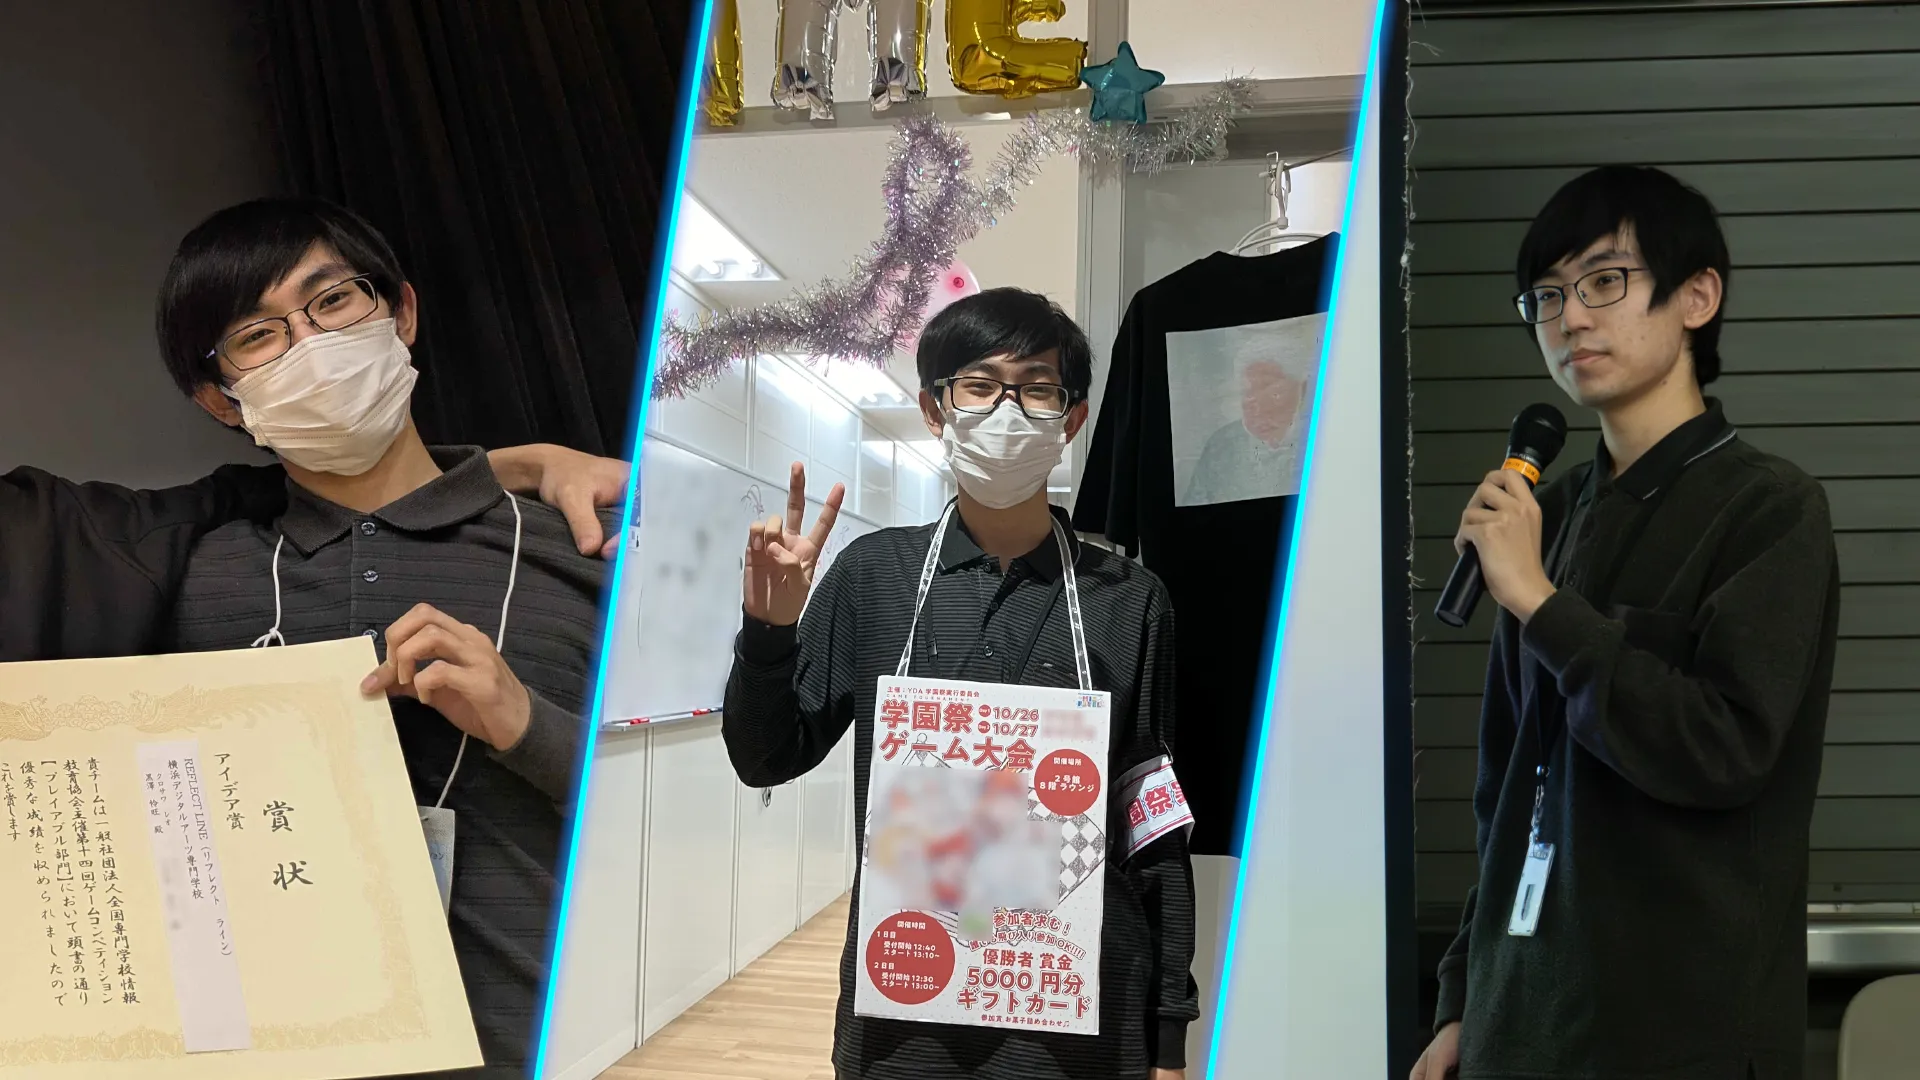
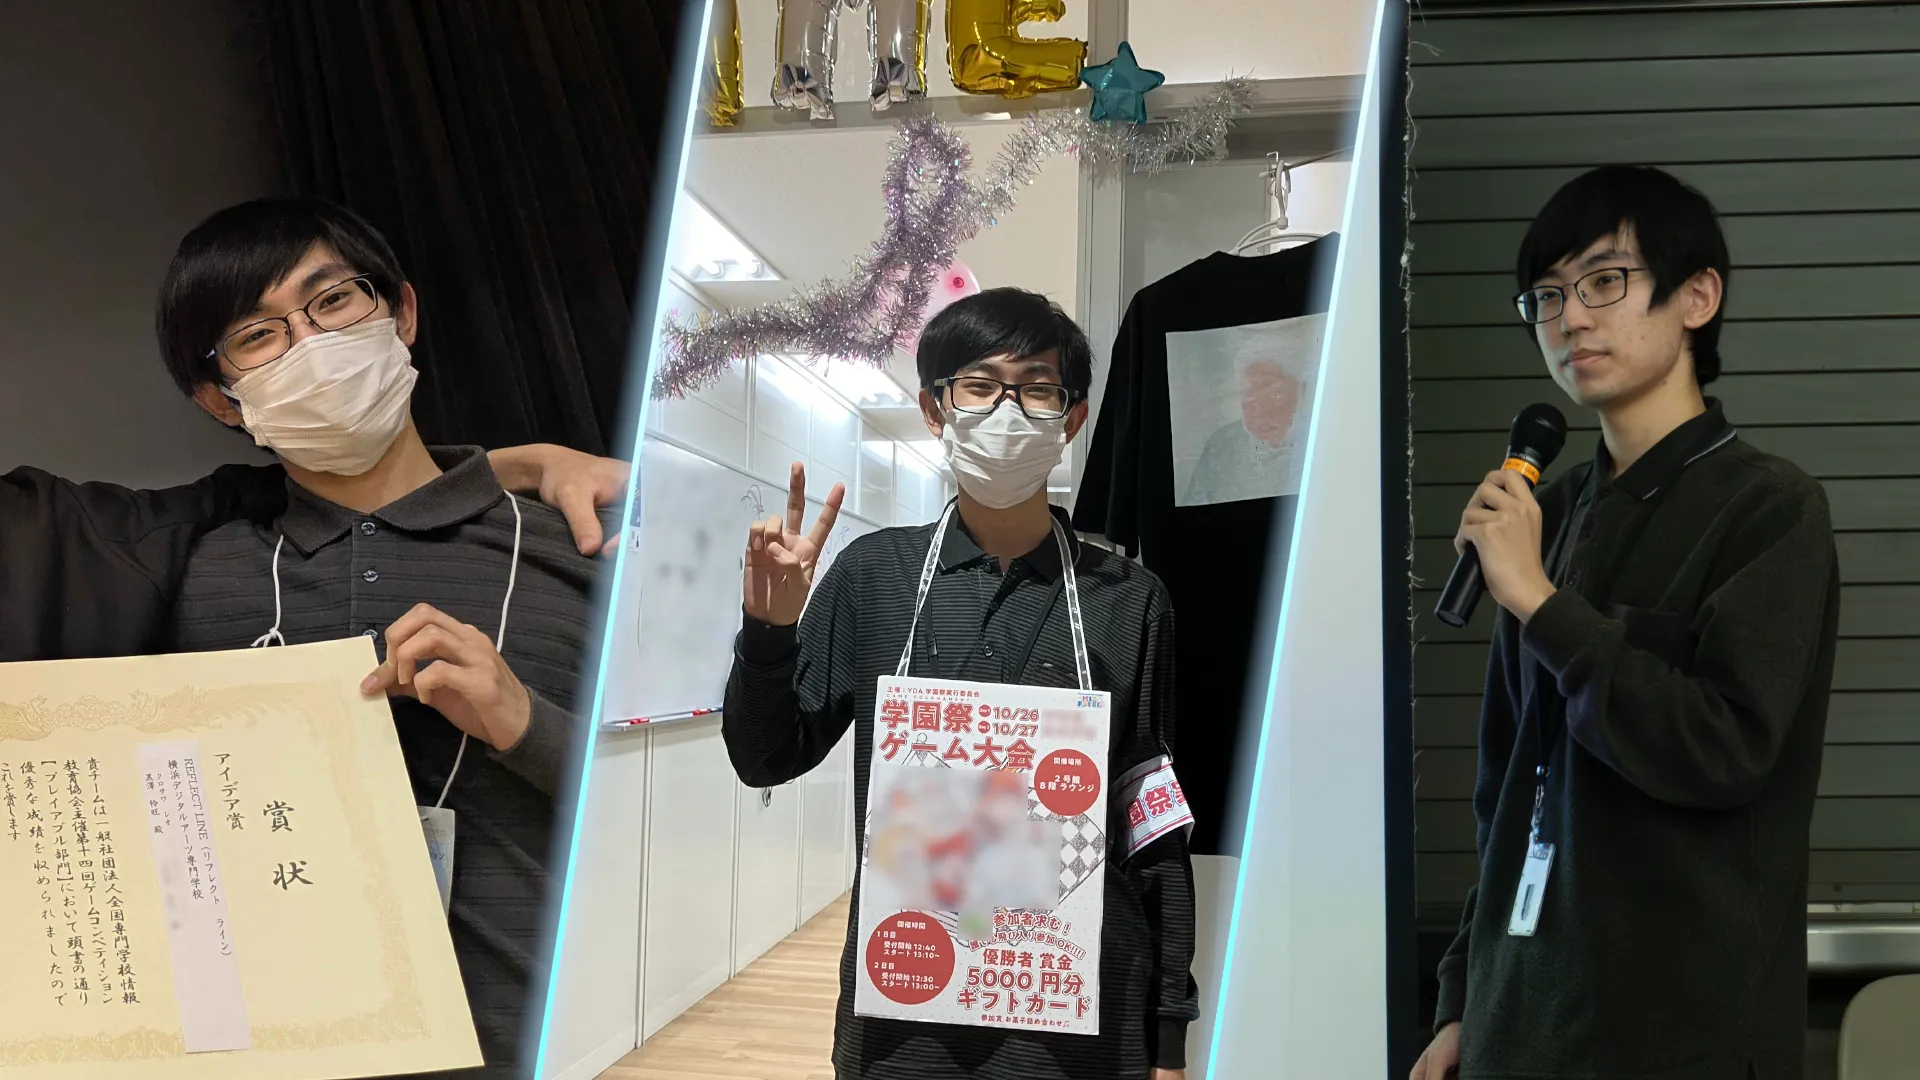
画像のぼかし修正、アイコンの変更など

Changed region(s): [[0.25, 0.0, 0.4062, 1.0], [0.625, 0.0, 0.75, 1.0]]

diff --git a/index.html b/index.html
@@ -36,13 +36,13 @@
       <div class="brand">PORTFOLIO</div>
       <div class="spacer"></div> <!-- スペース -->
       <a href="#contents-activity">
-        <svg xmlns="http://www.w3.org/2000/svg" width="0.9em" height="0.9em" viewBox="0 0 24 24" fill="none" stroke="#2ecbe0" stroke-width="1.5" stroke-linecap="round" stroke-linejoin="round" class="lucide lucide-activity-icon lucide-activity"><path d="M22 12h-2.48a2 2 0 0 0-1.93 1.46l-2.35 8.36a.25.25 0 0 1-.48 0L9.24 2.18a.25.25 0 0 0-.48 0l-2.35 8.36A2 2 0 0 1 4.49 12H2"/></svg>
+        <svg xmlns="http://www.w3.org/2000/svg" width="0.9em" height="0.9em" viewBox="0 0 24 24" fill="none" stroke="#2ecbe0" stroke-width="2" stroke-linecap="round" stroke-linejoin="round" class="lucide lucide-trophy-icon lucide-trophy"><path d="M10 14.66V17a1 1 0 0 1-1 1 2 2 0 0 0-2 2v2"/><path d="M14 14.66V17a1 1 0 0 0 1 1 2 2 0 0 1 2 2v2"/><path d="M17.916 10H19.5A2.5 2.5 0 0 0 22 7.5V5a1 1 0 0 0-1-1h-3"/><path d="M4 22h16"/><path d="M6 9a6 6 0 0 0 12 0V3a1 1 0 0 0-1-1H7a1 1 0 0 0-1 1z"/><path d="M6.084 10H4.5A2.5 2.5 0 0 1 2 7.5V5a1 1 0 0 1 1-1h3"/></svg>
       </a>
       <a href="#contents-works-team">
-        <svg xmlns="http://www.w3.org/2000/svg" width="0.9em" height="0.9em" viewBox="0 0 24 24" fill="none" stroke="#2ecbe0" stroke-width="1.5" stroke-linecap="round" stroke-linejoin="round" class="lucide lucide-gamepad2-icon lucide-gamepad-2"><line x1="6" x2="10" y1="11" y2="11"/><line x1="8" x2="8" y1="9" y2="13"/><line x1="15" x2="15.01" y1="12" y2="12"/><line x1="18" x2="18.01" y1="10" y2="10"/><path d="M17.32 5H6.68a4 4 0 0 0-3.978 3.59c-.006.052-.01.101-.017.152C2.604 9.416 2 14.456 2 16a3 3 0 0 0 3 3c1 0 1.5-.5 2-1l1.414-1.414A2 2 0 0 1 9.828 16h4.344a2 2 0 0 1 1.414.586L17 18c.5.5 1 1 2 1a3 3 0 0 0 3-3c0-1.545-.604-6.584-.685-7.258-.007-.05-.011-.1-.017-.151A4 4 0 0 0 17.32 5z"/></svg>
+        <svg xmlns="http://www.w3.org/2000/svg" width="0.9em" height="0.9em" viewBox="0 0 24 24" fill="none" stroke="#2ecbe0" stroke-width="2" stroke-linecap="round" stroke-linejoin="round" class="lucide lucide-users-icon lucide-users"><path d="M16 21v-2a4 4 0 0 0-4-4H6a4 4 0 0 0-4 4v2"/><path d="M16 3.128a4 4 0 0 1 0 7.744"/><path d="M22 21v-2a4 4 0 0 0-3-3.87"/><circle cx="9" cy="7" r="4"/></svg>
       </a>
       <a href="#contents-works-one">
-        <svg xmlns="http://www.w3.org/2000/svg" width="0.9em" height="0.9em" viewBox="0 0 24 24" fill="none" stroke="#2ecbe0" stroke-width="1.5" stroke-linecap="round" stroke-linejoin="round" class="lucide lucide-code-xml-icon lucide-code-xml"><path d="m18 16 4-4-4-4"/><path d="m6 8-4 4 4 4"/><path d="m14.5 4-5 16"/></svg>
+        <svg xmlns="http://www.w3.org/2000/svg" width="0.9em" height="0.9em" viewBox="0 0 24 24" fill="none" stroke="#2ecbe0" stroke-width="2" stroke-linecap="round" stroke-linejoin="round" class="lucide lucide-user-icon lucide-user"><path d="M19 21v-2a4 4 0 0 0-4-4H9a4 4 0 0 0-4 4v2"/><circle cx="12" cy="7" r="4"/></svg>
       </a>
     </nav>
   </header>
@@ -267,7 +267,7 @@
       <!-- sectionタイトル -->
       <div class="section-title">
         <h2 class="text kr-anim_fade-in-left">
-          <svg xmlns="http://www.w3.org/2000/svg" width="0.9em" height="0.9em" viewBox="0 0 24 24" fill="none" stroke="#2ecbe0" stroke-width="1.5" stroke-linecap="round" stroke-linejoin="round" class="lucide lucide-activity-icon lucide-activity"><path d="M22 12h-2.48a2 2 0 0 0-1.93 1.46l-2.35 8.36a.25.25 0 0 1-.48 0L9.24 2.18a.25.25 0 0 0-.48 0l-2.35 8.36A2 2 0 0 1 4.49 12H2"/></svg>
+          <svg xmlns="http://www.w3.org/2000/svg" width="0.9em" height="0.9em" viewBox="0 0 24 24" fill="none" stroke="#2ecbe0" stroke-width="2" stroke-linecap="round" stroke-linejoin="round" class="lucide lucide-trophy-icon lucide-trophy"><path d="M10 14.66V17a1 1 0 0 1-1 1 2 2 0 0 0-2 2v2"/><path d="M14 14.66V17a1 1 0 0 0 1 1 2 2 0 0 1 2 2v2"/><path d="M17.916 10H19.5A2.5 2.5 0 0 0 22 7.5V5a1 1 0 0 0-1-1h-3"/><path d="M4 22h16"/><path d="M6 9a6 6 0 0 0 12 0V3a1 1 0 0 0-1-1H7a1 1 0 0 0-1 1z"/><path d="M6.084 10H4.5A2.5 2.5 0 0 1 2 7.5V5a1 1 0 0 1 1-1h3"/></svg>
           活動
         </h2>
       </div>
@@ -316,7 +316,7 @@
       <!-- sectionタイトル -->
       <div class="section-title">
         <h2 class="text kr-anim_fade-in-left">
-          <svg xmlns="http://www.w3.org/2000/svg" width="0.9em" height="0.9em" viewBox="0 0 24 24" fill="none" stroke="#2ecbe0" stroke-width="1.5" stroke-linecap="round" stroke-linejoin="round" class="lucide lucide-gamepad2-icon lucide-gamepad-2"><line x1="6" x2="10" y1="11" y2="11"/><line x1="8" x2="8" y1="9" y2="13"/><line x1="15" x2="15.01" y1="12" y2="12"/><line x1="18" x2="18.01" y1="10" y2="10"/><path d="M17.32 5H6.68a4 4 0 0 0-3.978 3.59c-.006.052-.01.101-.017.152C2.604 9.416 2 14.456 2 16a3 3 0 0 0 3 3c1 0 1.5-.5 2-1l1.414-1.414A2 2 0 0 1 9.828 16h4.344a2 2 0 0 1 1.414.586L17 18c.5.5 1 1 2 1a3 3 0 0 0 3-3c0-1.545-.604-6.584-.685-7.258-.007-.05-.011-.1-.017-.151A4 4 0 0 0 17.32 5z"/></svg>
+          <svg xmlns="http://www.w3.org/2000/svg" width="0.9em" height="0.9em" viewBox="0 0 24 24" fill="none" stroke="#2ecbe0" stroke-width="2" stroke-linecap="round" stroke-linejoin="round" class="lucide lucide-users-icon lucide-users"><path d="M16 21v-2a4 4 0 0 0-4-4H6a4 4 0 0 0-4 4v2"/><path d="M16 3.128a4 4 0 0 1 0 7.744"/><path d="M22 21v-2a4 4 0 0 0-3-3.87"/><circle cx="9" cy="7" r="4"/></svg>
           チーム作品
         </h2>
         <p class="kr-anim_fade-in-left">
@@ -391,7 +391,7 @@
             <h3>PAC MUSCLE</h3>
             <p>
               リードプログラマーとして開発を主導。<br>
-              短期間のゲームジャムで制作し、即興でマップエディタ拡張も実装しました。
+              3日間で制作し、即興でマップエディタ拡張機能を実装しました。
             </p>
             <div class="chipz">
               <span class="chip">Unity</span>
@@ -444,7 +444,7 @@
       <!-- sectionタイトル -->
       <div class="section-title">
         <h2 class="text kr-anim_fade-in-left">
-          <svg xmlns="http://www.w3.org/2000/svg" width="0.9em" height="0.9em" viewBox="0 0 24 24" fill="none" stroke="#2ecbe0" stroke-width="1.5" stroke-linecap="round" stroke-linejoin="round" class="lucide lucide-code-xml-icon lucide-code-xml"><path d="m18 16 4-4-4-4"/><path d="m6 8-4 4 4 4"/><path d="m14.5 4-5 16"/></svg>
+          <svg xmlns="http://www.w3.org/2000/svg" width="0.9em" height="0.9em" viewBox="0 0 24 24" fill="none" stroke="#2ecbe0" stroke-width="2" stroke-linecap="round" stroke-linejoin="round" class="lucide lucide-user-icon lucide-user"><path d="M19 21v-2a4 4 0 0 0-4-4H9a4 4 0 0 0-4 4v2"/><circle cx="12" cy="7" r="4"/></svg>
           個人作品
         </h2>
         <p class="kr-anim_fade-in-left">
@@ -514,7 +514,7 @@
   <!-- フッター -->
   <footer>
     <small>
-      最終更新日: 2026/08/28<br>
+      最終更新日: 2026/08/29<br>
       随時更新中<br>
       <br>
       ©2025-2026 Kurosawa Reo Portfolio

diff --git a/pages/activity/real.html b/pages/activity/real.html
@@ -172,12 +172,12 @@
           <b class="title">Game Pit TOKYO 2026</b>
         </div>
         <p>
-          Game Pit TOKYOにて、東京へ出張し、代表作<span class="keyword">「REFLECT LINE」</span>を展示しました。
+          東京へ出張に行き、Game Pit TOKYOで作品を展示しました。
         </p>
         <div class="kr-layout_grid">
           <div>
-            <a href="../../img/activity/real/game_pit_tokyo/game_pit_tokyo.webp" data-lightbox="main" class="zoom-icon-parent">
-              <img src="../../img/activity/real/game_pit_tokyo/game_pit_tokyo.webp" class="panel-img">
+            <a href="../../img/activity/real/game_pit_tokyo/image1.webp" data-lightbox="main" class="zoom-icon-parent">
+              <img src="../../img/activity/real/game_pit_tokyo/image1.webp" class="panel-img">
               <img src="../../img/zoom-icon.webp" class="zoom-icon">
             </a>
           </div>
@@ -195,20 +195,20 @@
           <b class="title">東京ゲームショウ2025</b>
         </div>
         <p>
-          東京ゲームショウにて、学園全体の出展に参加し、代表作<span class="keyword">「REFLECT LINE」</span>を展示しました。
+          東京ゲームショウでの学園全体の出展に参加し、作品を展示しました。
         </p>
         <div class="kr-layout_grid">
           <div>
-            <img src="../../img/activity/real/tokyo_game_show/tokyo_game_show_1.webp" class="panel-img">
+            <img src="../../img/activity/real/tokyo_game_show/image1.webp" class="panel-img">
           </div>
           <div>
-            <img src="../../img/activity/real/tokyo_game_show/tokyo_game_show_2.webp" class="panel-img">
+            <img src="../../img/activity/real/tokyo_game_show/image2.webp" class="panel-img">
           </div>
           <div>
-            <img src="../../img/activity/real/tokyo_game_show/tokyo_game_show_3.webp" class="panel-img">
+            <img src="../../img/activity/real/tokyo_game_show/image3.webp" class="panel-img">
           </div>
           <div>
-            <img src="../../img/activity/real/tokyo_game_show/tokyo_game_show_4.webp" class="panel-img">
+            <img src="../../img/activity/real/tokyo_game_show/image4.webp" class="panel-img">
           </div> 
         </div>
       </div>
@@ -355,14 +355,14 @@
         </p>
         <div class="kr-layout_grid">
           <div>
-            <a href="../../img/activity/real/gamejam/venue_preparation_1.webp" data-lightbox="main" class="zoom-icon-parent">
-              <img src="../../img/activity/real/gamejam/venue_preparation_1.webp" class="panel-img">
+            <a href="../../img/activity/real/gamejam/preparation_1.webp" data-lightbox="main" class="zoom-icon-parent">
+              <img src="../../img/activity/real/gamejam/preparation_1.webp" class="panel-img">
               <img src="../../img/zoom-icon.webp" class="zoom-icon">
             </a>
           </div>
           <div>
-            <a href="../../img/activity/real/gamejam/venue_preparation_2.webp" data-lightbox="main" class="zoom-icon-parent">
-              <img src="../../img/activity/real/gamejam/venue_preparation_2.webp" class="panel-img">
+            <a href="../../img/activity/real/gamejam/preparation_2.webp" data-lightbox="main" class="zoom-icon-parent">
+              <img src="../../img/activity/real/gamejam/preparation_2.webp" class="panel-img">
               <img src="../../img/zoom-icon.webp" class="zoom-icon">
             </a>
           </div>
@@ -373,8 +373,8 @@
         </p>
         <div class="kr-layout_grid">
           <div>
-            <a href="../../img/activity/real/gamejam/monitor_preparation.webp" data-lightbox="main" class="zoom-icon-parent">
-              <img src="../../img/activity/real/gamejam/monitor_preparation.webp" class="panel-img">
+            <a href="../../img/activity/real/gamejam/preparation_3.webp" data-lightbox="main" class="zoom-icon-parent">
+              <img src="../../img/activity/real/gamejam/preparation_3.webp" class="panel-img">
               <img src="../../img/zoom-icon.webp" class="zoom-icon">
             </a>
           </div>
@@ -402,7 +402,7 @@
   <!-- フッター -->
   <footer>
     <small>
-      最終更新日: 2026/08/28<br>
+      最終更新日: 2026/08/29<br>
       随時更新中<br>
       <br>
       <!-- ポートフォリオサイト表記 -->
